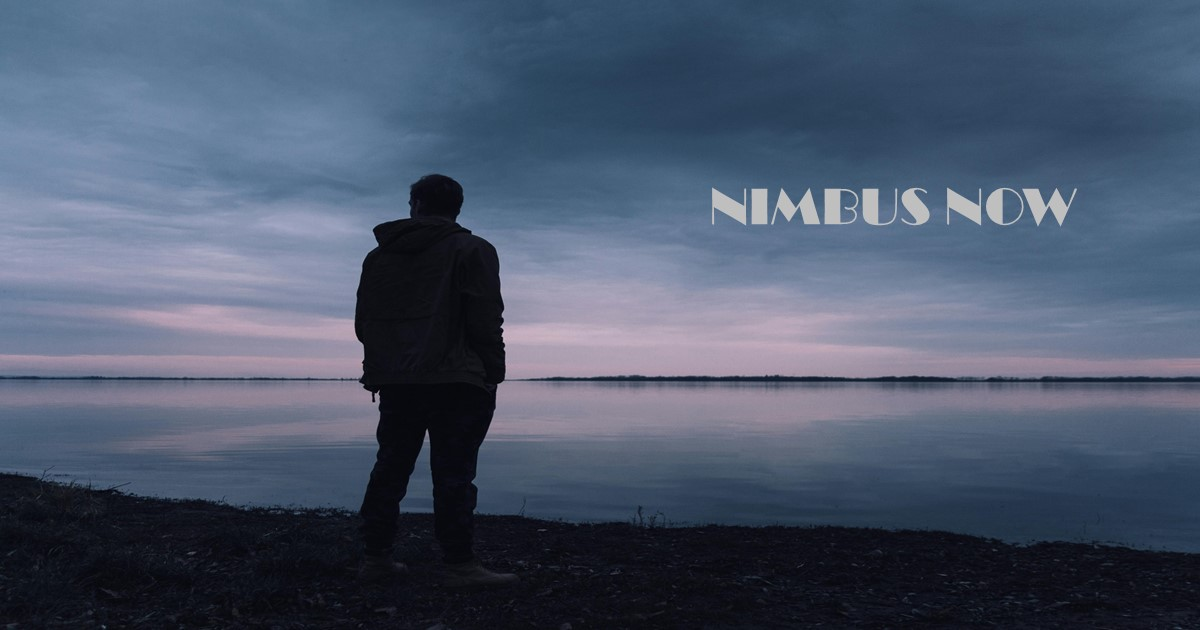
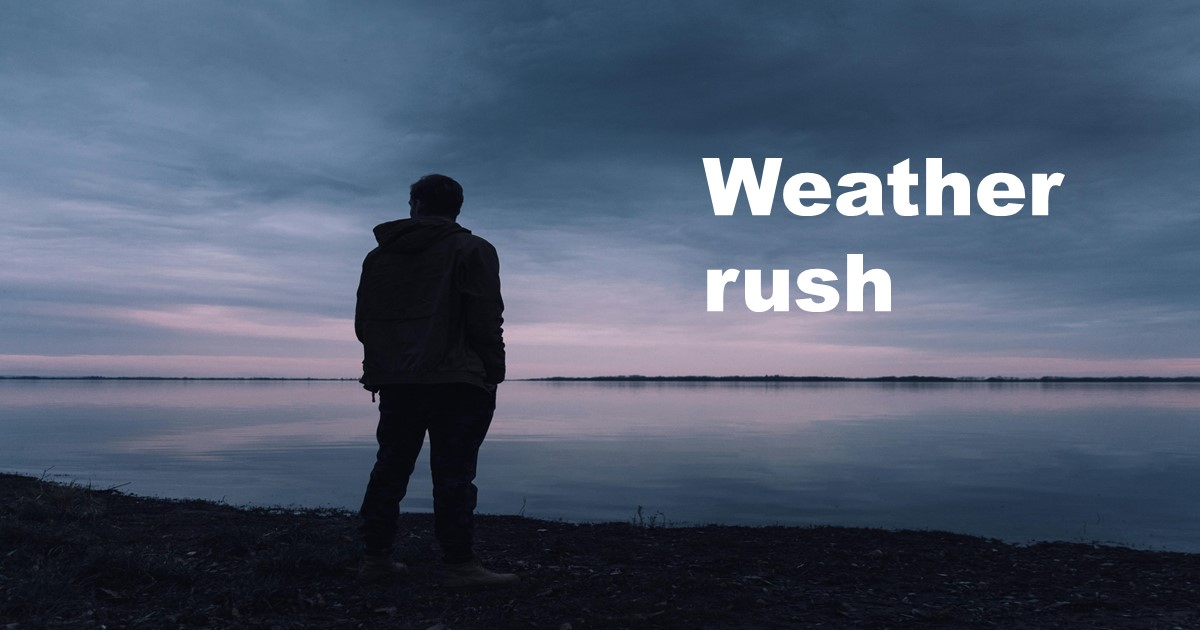
open graph fixing

Changed region(s): [[0.5858, 0.2413, 0.8942, 0.3619], [0.5858, 0.3921, 0.74, 0.5127]]

diff --git a/src/app/api/og/route.tsx b/src/app/api/og/route.tsx
@@ -1,0 +1,38 @@
+import {ImageResponse} from '@vercel/og';
+import { NextRequest } from 'next/server';
+
+export const runtime = 'edge';
+
+
+export async function GET(req: NextRequest) {
+   const {searchParams} = new URL(req.url)
+   const location = searchParams.get('location') || 'Nairobi'
+   const imageUrl = 'https://weatherrush.netlify.app/opengraph-plain.jpg'
+    return new ImageResponse(
+       <div style={{
+            display:'flex',
+            flexDirection: 'column',
+            width: '1200px',
+            height: '630px',
+            backgroundColor: '#1e2939',
+            color: 'white',
+            alignItems: 'flex-end',
+            justifyContent: 'center',
+            fontSize: '50px',
+            fontWeight: 'bold',
+        }}> 
+        <img src={imageUrl} style={{ position: 'absolute', width: '100%', height: '100%', objectFit: 'cover' , zIndex: 0}} alt='background image'/>
+       
+        <div style={{display: 'flex', flexDirection: 'column', alignItems: 'center', justifyContent: 'center', gap: '5px', paddingRight: '10px'}}>
+            <h1>Weather Rush</h1>
+            <div style={{display: 'flex', flexDirection: 'row' , justifyContent: 'center' , alignItems: 'center' , gap: '3px'}}>
+            <p style={{color: 'yellow'}}>{location} </p>
+            <p>weather</p>
+            </div>
+        </div>
+        </div>,{
+            width: 1200,
+            height: 630,
+        }
+    )
+}

diff --git a/src/app/weather/[location]/page.tsx b/src/app/weather/[location]/page.tsx
@@ -3,7 +3,7 @@ import { Metadata } from "next";
 
 
 export async function generateMetadata({params} :any): Promise<Metadata> {
-    const locationName = decodeURIComponent(params?.location || "Nairobi");
+    const locationName = decodeURIComponent(params.location || "Nairobi");
     
 
     return {
@@ -13,7 +13,7 @@ export async function generateMetadata({params} :any): Promise<Metadata> {
             title: `Weather in ${locationName}`,
             description: `Get the latest weather updates for ${locationName.toLocaleUpperCase()}, summerized, easy to read and interprate`,
             url: `https://weatherrush.netlify.app/weather/${encodeURIComponent(locationName)}`,
-            images: [`https://weatherrush.netlify.app/weather/${params.location}/opengraph-image`],
+            images: [`https://weatherrush.netlify.app/api/og?location=${encodeURIComponent(locationName)}`],
         },
     };
 }

diff --git a/src/app/settings/page.tsx b/src/app/settings/page.tsx
@@ -1,4 +1,14 @@
 import Settings from "@/component/Settings";
+import type { Metadata } from "next";
+export const metadata: Metadata = {
+    title: 'weather rush settings',
+    description: 'weather rush provides you with quick detailed and easily interprateble weather data for any location in the world',
+    openGraph: {
+       title:'weather rush settings',
+       images: ['https://weatherrush.netlify.app/opengraph-settings.jpg'],
+       description: 'weather rush provides you with quick detailed and easily interprateble weather data for any location in the world'
+    }
+ }
 
 export default function SettingsPage (){
     return <Settings/>;

diff --git a/src/app/not-found.tsx b/src/app/not-found.tsx
@@ -6,7 +6,7 @@ export const metadata: Metadata = {
     description: 'page does not exist but weather rush provides you with quick detailed and easily interprateble weather data for any location in the world',
     openGraph: {
        title:'not found in weather rush',
-       images: ['opengraph.jpg'],
+       images: ['https://weatherrush.netlify.app/opengraph-notfound.jpg'],
        description: 'page does not exist but weather rush provides you with quick detailed and easily interprateble weather data for any location in the world'
     }
  }

diff --git a/src/app/page.tsx b/src/app/page.tsx
@@ -6,7 +6,7 @@ export const metadata: Metadata = {
    description: 'weather rush provides you with quick detailed and easily interprateble weather data for any location in the world',
    openGraph: {
       title:'weather rush',
-      images: ['opengraph.jpg'],
+      images: ['https://weatherrush.netlify.app/opengraph.jpg'],
       description: 'weather rush provides you with quick detailed and easily interprateble weather data for any location in the world'
    }
 }
